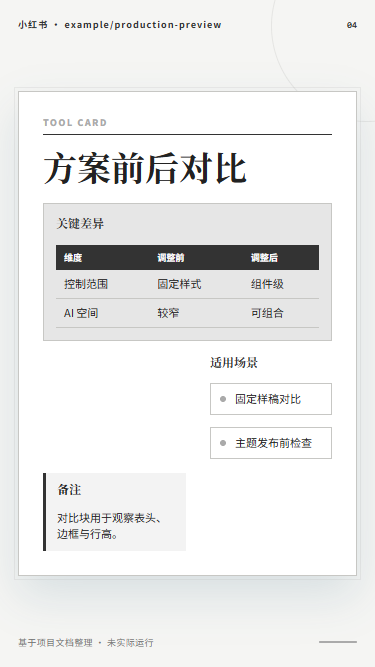
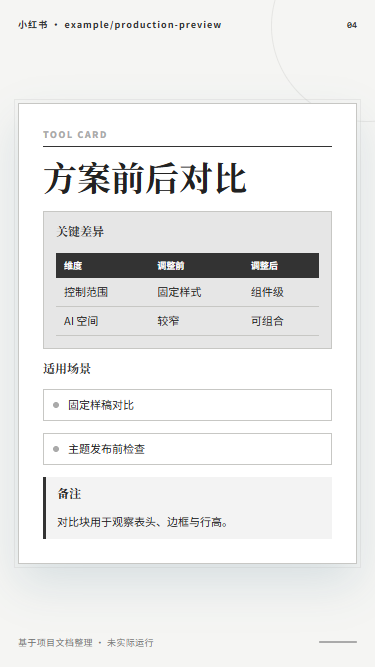
fix(themes): editorial-split 骨架服从管线单列决策
- 双栏网格不再对 blocks-1/blocks-3/comp-cols-single 页面生效，
  3 块页面回归单列，与 semanticCardColumns 语义一致
- 2 块及 4 块以上页面保持骨架双栏构图
- 新增回归测试锁定骨架与管线列决策的一致性

diff --git a/docs/audits/theme-ux/review-layer2/social-bone-white.html b/docs/audits/theme-ux/review-layer2/social-bone-white.html
@@ -25,7 +25,7 @@
 .composition-smart.comp-cols-single.items-6 .list-block ul,.composition-smart.comp-cols-single.items-7 .list-block ul,.composition-smart.comp-cols-single.items-8 .list-block ul,.composition-smart.comp-cols-single.items-9 .list-block ul{grid-template-columns:repeat(2,minmax(0,1fr));gap:7px}.composition-smart.density-compact .page-content-stack{padding:20px 18px;gap:9px}.composition-smart.density-compact .page li{padding:7px 8px 7px 22px;font-size:10px;line-height:1.35}.theme-palette .composition-smart.page-ending .page-content-stack{background:var(--accent);color:var(--page)}.theme-palette .composition-smart.page-ending h1,.theme-palette .composition-smart.page-ending .text-block,.theme-palette .composition-smart.page-ending .text-block h2,.theme-palette .composition-smart.page-ending .text-block p{color:var(--page)}.theme-palette .composition-smart.page-ending.overlap-title-card h1{background:var(--surface);color:var(--ink)}.composition-smart.page-ending.overlap-title-card h1{color:var(--ink)}
 .page.density-relaxed .page-content-stack{gap:calc(var(--card-gap) + 3px)}.page.density-relaxed .content-block{padding-block:3px}
 .page.density-expanded .page-content-stack{gap:calc(var(--card-gap) + 6px)}.page.density-expanded h1{font-size:max(var(--h1-size),min(calc(var(--h1-size) + 4px),34px))}.page.density-expanded .content-block h2{font-size:max(var(--h2-size),min(calc(var(--h2-size) + 2px),18px))}.page.density-expanded .content-block p,.page.density-expanded li{font-size:max(var(--body-size),min(calc(var(--body-size) + 1px),13px));line-height:max(var(--line-height),1.52)}.page.density-expanded .content-block{gap:calc(var(--paragraph-gap) + 3px);padding-block:8px}
-.theme-bone-white{--bg:#e7e7e5;--page:#f5f5f3;--surface:#ffffff;--ink:#222222;--muted:#777777;--accent:#333333;--accent2:#aaaaaa;--line:#c7c7c4;--inverse:#ffffff;--code:#222222;--body-size:11px;--h1-size:34px;--h2-size:12px;--caption-size:9px;--line-height:1.45;--letter-spacing:0em;--page-padding:18px;--section-gap:24px;--paragraph-gap:12px;--card-gap:12px;--radius:0px;--border-width:1px;--shadow:0 20px 45px rgba(36,91,122,.14);--decoration-opacity:0.35}.theme-bone-white{background:var(--bg);color:var(--ink);font-family:"Noto Sans SC","Microsoft YaHei",sans-serif;font-size:var(--body-size);line-height:var(--line-height);letter-spacing:var(--letter-spacing)}.theme-bone-white h1,.theme-bone-white h2,.theme-bone-white h3{font-family:Georgia,"Noto Serif SC","Microsoft YaHei",serif}.theme-bone-white .page{background:var(--page);color:var(--ink)}.theme-bone-white .page-inner{padding:var(--page-padding)}.theme-bone-white .page-content-stack{gap:var(--card-gap);padding:var(--section-gap);border:var(--border-width) solid var(--line);border-radius:var(--radius);background:var(--surface);box-shadow:var(--shadow)}.theme-bone-white .page h1{font-size:var(--h1-size);letter-spacing:var(--letter-spacing)}.theme-bone-white .content-block{gap:var(--paragraph-gap)}.theme-bone-white .content-block h2{font-size:var(--h2-size)}.theme-bone-white .content-block p,.theme-bone-white .page li{font-size:var(--body-size);line-height:var(--line-height)}.theme-bone-white .brand,.theme-bone-white .page-number,.theme-bone-white .content-block h2{color:var(--accent)}.theme-bone-white .brand,.theme-bone-white .page-number,.theme-bone-white .eyebrow,.theme-bone-white .page-footer{font-size:var(--caption-size)}.theme-bone-white .eyebrow{color:var(--accent2)}.theme-bone-white .lead,.theme-bone-white .page-footer{color:var(--muted)}.theme-bone-white .page ul{gap:var(--card-gap)}.theme-bone-white .page li{border:var(--border-width) solid var(--line);border-radius:calc(var(--radius)/2);background:color-mix(in srgb,var(--accent) 12%,var(--surface))}.theme-bone-white .page li:before,.theme-bone-white .page-footer i{background:var(--accent2)}.theme-bone-white .code-block pre{border-radius:calc(var(--radius)/2);background:var(--code);color:var(--inverse)}.theme-bone-white .code-block code{font-size:var(--caption-size);line-height:var(--line-height)}.theme-bone-white .note-block{border-left-color:var(--accent);border-radius:0 calc(var(--radius)/2) calc(var(--radius)/2) 0;background:color-mix(in srgb,var(--accent2) 14%,var(--surface))}.theme-bone-white .page-ending .page-content-stack{background:var(--accent);color:var(--inverse)}.theme-bone-white .page-ending .lead,.theme-bone-white .page-ending li,.theme-bone-white .page-ending .content-block h2{color:var(--inverse)}.theme-bone-white .page-ending li{background:rgba(0,0,0,.14)}.theme-bone-white .page-ending .note-block,.theme-bone-white .page-ending .highlight-block,.theme-bone-white .page-ending .scene,.theme-bone-white .page-ending .stat,.theme-bone-white .page-ending .compare-block td{color:var(--ink)}.theme-bone-white .page-content-stack{outline:1px solid color-mix(in srgb,var(--accent2) 18%,transparent);outline-offset:3px}.theme-bone-white .page-ending .page-content-stack{background:var(--accent);color:var(--inverse)}.theme-bone-white .page li{background:transparent;border-color:var(--line)}.theme-bone-white .code-block pre{background:var(--code);color:var(--inverse);border:var(--border-width) solid var(--line)}.theme-bone-white .page:after{border-radius:50%}.theme-bone-white .eyebrow{border-bottom:1px solid var(--accent);padding-bottom:5px}.theme-bone-white .page-cover h1{font-family:Georgia,"Noto Serif SC","Microsoft YaHei",serif;font-weight:700;line-height:1.14;letter-spacing:-.025em;padding:14px 0 12px;border-top:4px double var(--ink);border-bottom:1px solid var(--accent);text-wrap:balance}.theme-bone-white .skeleton-editorial-split:not(.page-cover) .page-content-stack{display:grid;grid-template-columns:minmax(0,1.08fr) minmax(0,.92fr);align-content:center;gap:calc(var(--card-gap) + 2px) var(--section-gap)}.theme-bone-white .skeleton-editorial-split:not(.page-cover) .eyebrow,.theme-bone-white .skeleton-editorial-split:not(.page-cover) h1,.theme-bone-white .skeleton-editorial-split:not(.page-cover) .cover-support{grid-column:1/-1}.theme-bone-white .skeleton-editorial-split:not(.page-cover) .content-block:nth-child(odd){grid-column:1}.theme-bone-white .skeleton-editorial-split:not(.page-cover) .content-block:nth-child(even){grid-column:2}.theme-bone-white .skeleton-editorial-split:not(.page-cover) .content-block.stats-block,.theme-bone-white .skeleton-editorial-split:not(.page-cover) .content-block.compare-block,.theme-bone-white .skeleton-editorial-split:not(.page-cover) .content-block.code-block{grid-column:1/-1}.theme-bone-white .page-cover h1{font-family:Georgia,"Noto Serif SC","Microsoft YaHei",serif;font-weight:700;font-size:34px;color:var(--ink);border-color:var(--accent)}.theme-bone-white .eyebrow{font-weight:800;color:var(--accent2)}.theme-bone-white .page-cover .lead{font-size:11px;color:var(--muted)}.theme-bone-white .stat b{font-weight:800;font-size:19px;color:var(--accent)}.theme-bone-white .stat span{font-size:9px;color:var(--muted)}.theme-bone-white .step h3{color:var(--ink)}.theme-bone-white .step p{color:var(--muted)}.theme-bone-white .step>b{background:var(--accent)}.theme-bone-white .compare-block th{color:var(--inverse);background:var(--accent)}.theme-bone-white .compare-block td{color:var(--ink);border-color:var(--line)}.theme-bone-white .page li{color:var(--ink);border-color:var(--line);}.theme-bone-white .note-block,.theme-bone-white .note-block h2,.theme-bone-white .note-block p{color:var(--ink)}.theme-bone-white .note-block{border-left-color:var(--accent);}.theme-bone-white .page:not(.page-cover):not(.page-ending) h1{font-size:34px;color:var(--ink)}.theme-bone-white .page-ending h1{font-size:34px;color:var(--inverse)}</style><style data-theme-preview-shell>html{background:#d8d6cf}body{margin:0;padding:24px;box-sizing:border-box}</style></head><body class="theme-bone-white theme-palette" data-visual-style="bone-white" data-theme-version="1.0.0" data-theme-hash="undefined" data-channel="xiaohongshu"><section class="page page-cover skeleton-editorial-split layout-poster density-normal blocks-0 items-0 composition-template" data-page-kind="cover" data-page-role="cover" data-composition-mode="template" data-composition-id="" data-layout="poster" data-layout-source="recommended" data-density="normal" data-density-adjustment="none" data-block-count="0" data-list-item-count="0" data-page-number="1"><div class="page-inner"><header class="page-header"><span class="brand">小红书 · example/production-preview</span><span class="page-number">01</span></header><main class="page-body" data-valign="center"><div class="page-content-stack" data-card-index="01"><span class="eyebrow">TOOL RADAR</span><h1>如何把复杂的技术内容讲得清楚又准确</h1><p class="cover-support cover-support-lead">用一页讲清关键判断，再决定是否深入细节。</p></div></main><footer class="page-footer"><span>基于项目文档整理 · 未实际运行</span><i></i></footer></div></section>
+.theme-bone-white{--bg:#e7e7e5;--page:#f5f5f3;--surface:#ffffff;--ink:#222222;--muted:#777777;--accent:#333333;--accent2:#aaaaaa;--line:#c7c7c4;--inverse:#ffffff;--code:#222222;--body-size:11px;--h1-size:34px;--h2-size:12px;--caption-size:9px;--line-height:1.45;--letter-spacing:0em;--page-padding:18px;--section-gap:24px;--paragraph-gap:12px;--card-gap:12px;--radius:0px;--border-width:1px;--shadow:0 20px 45px rgba(36,91,122,.14);--decoration-opacity:0.35}.theme-bone-white{background:var(--bg);color:var(--ink);font-family:"Noto Sans SC","Microsoft YaHei",sans-serif;font-size:var(--body-size);line-height:var(--line-height);letter-spacing:var(--letter-spacing)}.theme-bone-white h1,.theme-bone-white h2,.theme-bone-white h3{font-family:Georgia,"Noto Serif SC","Microsoft YaHei",serif}.theme-bone-white .page{background:var(--page);color:var(--ink)}.theme-bone-white .page-inner{padding:var(--page-padding)}.theme-bone-white .page-content-stack{gap:var(--card-gap);padding:var(--section-gap);border:var(--border-width) solid var(--line);border-radius:var(--radius);background:var(--surface);box-shadow:var(--shadow)}.theme-bone-white .page h1{font-size:var(--h1-size);letter-spacing:var(--letter-spacing)}.theme-bone-white .content-block{gap:var(--paragraph-gap)}.theme-bone-white .content-block h2{font-size:var(--h2-size)}.theme-bone-white .content-block p,.theme-bone-white .page li{font-size:var(--body-size);line-height:var(--line-height)}.theme-bone-white .brand,.theme-bone-white .page-number,.theme-bone-white .content-block h2{color:var(--accent)}.theme-bone-white .brand,.theme-bone-white .page-number,.theme-bone-white .eyebrow,.theme-bone-white .page-footer{font-size:var(--caption-size)}.theme-bone-white .eyebrow{color:var(--accent2)}.theme-bone-white .lead,.theme-bone-white .page-footer{color:var(--muted)}.theme-bone-white .page ul{gap:var(--card-gap)}.theme-bone-white .page li{border:var(--border-width) solid var(--line);border-radius:calc(var(--radius)/2);background:color-mix(in srgb,var(--accent) 12%,var(--surface))}.theme-bone-white .page li:before,.theme-bone-white .page-footer i{background:var(--accent2)}.theme-bone-white .code-block pre{border-radius:calc(var(--radius)/2);background:var(--code);color:var(--inverse)}.theme-bone-white .code-block code{font-size:var(--caption-size);line-height:var(--line-height)}.theme-bone-white .note-block{border-left-color:var(--accent);border-radius:0 calc(var(--radius)/2) calc(var(--radius)/2) 0;background:color-mix(in srgb,var(--accent2) 14%,var(--surface))}.theme-bone-white .page-ending .page-content-stack{background:var(--accent);color:var(--inverse)}.theme-bone-white .page-ending .lead,.theme-bone-white .page-ending li,.theme-bone-white .page-ending .content-block h2{color:var(--inverse)}.theme-bone-white .page-ending li{background:rgba(0,0,0,.14)}.theme-bone-white .page-ending .note-block,.theme-bone-white .page-ending .highlight-block,.theme-bone-white .page-ending .scene,.theme-bone-white .page-ending .stat,.theme-bone-white .page-ending .compare-block td{color:var(--ink)}.theme-bone-white .page-content-stack{outline:1px solid color-mix(in srgb,var(--accent2) 18%,transparent);outline-offset:3px}.theme-bone-white .page-ending .page-content-stack{background:var(--accent);color:var(--inverse)}.theme-bone-white .page li{background:transparent;border-color:var(--line)}.theme-bone-white .code-block pre{background:var(--code);color:var(--inverse);border:var(--border-width) solid var(--line)}.theme-bone-white .page:after{border-radius:50%}.theme-bone-white .eyebrow{border-bottom:1px solid var(--accent);padding-bottom:5px}.theme-bone-white .page-cover h1{font-family:Georgia,"Noto Serif SC","Microsoft YaHei",serif;font-weight:700;line-height:1.14;letter-spacing:-.025em;padding:14px 0 12px;border-top:4px double var(--ink);border-bottom:1px solid var(--accent);text-wrap:balance}.theme-bone-white .skeleton-editorial-split:not(.page-cover):not(.blocks-1):not(.blocks-3):not(.comp-cols-single) .page-content-stack{display:grid;grid-template-columns:minmax(0,1.08fr) minmax(0,.92fr);align-content:center;gap:calc(var(--card-gap) + 2px) var(--section-gap)}.theme-bone-white .skeleton-editorial-split:not(.page-cover) .eyebrow,.theme-bone-white .skeleton-editorial-split:not(.page-cover) h1,.theme-bone-white .skeleton-editorial-split:not(.page-cover) .cover-support{grid-column:1/-1}.theme-bone-white .skeleton-editorial-split:not(.page-cover):not(.blocks-1):not(.blocks-3):not(.comp-cols-single) .content-block:nth-child(odd){grid-column:1}.theme-bone-white .skeleton-editorial-split:not(.page-cover):not(.blocks-1):not(.blocks-3):not(.comp-cols-single) .content-block:nth-child(even){grid-column:2}.theme-bone-white .skeleton-editorial-split:not(.page-cover):not(.blocks-1):not(.blocks-3):not(.comp-cols-single) .content-block.stats-block,.theme-bone-white .skeleton-editorial-split:not(.page-cover):not(.blocks-1):not(.blocks-3):not(.comp-cols-single) .content-block.compare-block,.theme-bone-white .skeleton-editorial-split:not(.page-cover):not(.blocks-1):not(.blocks-3):not(.comp-cols-single) .content-block.code-block{grid-column:1/-1}.theme-bone-white .page-cover h1{font-family:Georgia,"Noto Serif SC","Microsoft YaHei",serif;font-weight:700;font-size:34px;color:var(--ink);border-color:var(--accent)}.theme-bone-white .eyebrow{font-weight:800;color:var(--accent2)}.theme-bone-white .page-cover .lead{font-size:11px;color:var(--muted)}.theme-bone-white .stat b{font-weight:800;font-size:19px;color:var(--accent)}.theme-bone-white .stat span{font-size:9px;color:var(--muted)}.theme-bone-white .step h3{color:var(--ink)}.theme-bone-white .step p{color:var(--muted)}.theme-bone-white .step>b{background:var(--accent)}.theme-bone-white .compare-block th{color:var(--inverse);background:var(--accent)}.theme-bone-white .compare-block td{color:var(--ink);border-color:var(--line)}.theme-bone-white .page li{color:var(--ink);border-color:var(--line);}.theme-bone-white .note-block,.theme-bone-white .note-block h2,.theme-bone-white .note-block p{color:var(--ink)}.theme-bone-white .note-block{border-left-color:var(--accent);}.theme-bone-white .page:not(.page-cover):not(.page-ending) h1{font-size:34px;color:var(--ink)}.theme-bone-white .page-ending h1{font-size:34px;color:var(--inverse)}</style><style data-theme-preview-shell>html{background:#d8d6cf}body{margin:0;padding:24px;box-sizing:border-box}</style></head><body class="theme-bone-white theme-palette" data-visual-style="bone-white" data-theme-version="1.0.0" data-theme-hash="undefined" data-channel="xiaohongshu"><section class="page page-cover skeleton-editorial-split layout-poster density-normal blocks-0 items-0 composition-template" data-page-kind="cover" data-page-role="cover" data-composition-mode="template" data-composition-id="" data-layout="poster" data-layout-source="recommended" data-density="normal" data-density-adjustment="none" data-block-count="0" data-list-item-count="0" data-page-number="1"><div class="page-inner"><header class="page-header"><span class="brand">小红书 · example/production-preview</span><span class="page-number">01</span></header><main class="page-body" data-valign="center"><div class="page-content-stack" data-card-index="01"><span class="eyebrow">TOOL RADAR</span><h1>如何把复杂的技术内容讲得清楚又准确</h1><p class="cover-support cover-support-lead">用一页讲清关键判断，再决定是否深入细节。</p></div></main><footer class="page-footer"><span>基于项目文档整理 · 未实际运行</span><i></i></footer></div></section>
 <section class="page page-content skeleton-editorial-split layout-data density-normal blocks-4 items-2 composition-template" data-page-kind="content" data-page-role="data" data-composition-mode="template" data-composition-id="" data-layout="data" data-layout-source="recommended" data-density="normal" data-density-adjustment="none" data-block-count="4" data-list-item-count="2" data-page-number="2"><div class="page-inner"><header class="page-header"><span class="brand">小红书 · example/production-preview</span><span class="page-number">02</span></header><main class="page-body" data-valign="center"><div class="page-content-stack" data-card-index="02"><span class="eyebrow">TOOL CARD</span><h1>关键指标与判断</h1><div class="content-block stats-block"><h2>关键数字</h2><div class="stat-row"><div class="stat"><b>2.4x</b><span data-text-role="auxiliary">速度</span></div><div class="stat"><b>-12%</b><span data-text-role="auxiliary">成本</span></div></div></div><div class="content-block list-block"><h2>核心要点</h2><ul><li>第一条固定要点</li><li>第二条固定要点</li></ul></div><aside class="content-block note-block"><h2>提示</h2><p>用于观察强调面板、边框和正文对比度。</p></aside><div class="content-block code-block"><h2>代码</h2><pre><code>const theme = &#39;preview&#39;;</code></pre></div></div></main><footer class="page-footer"><span>基于项目文档整理 · 未实际运行</span><i></i></footer></div></section>
 <section class="page page-content skeleton-editorial-split layout-steps density-normal blocks-3 items-2 composition-template" data-page-kind="content" data-page-role="steps" data-composition-mode="template" data-composition-id="" data-layout="steps" data-layout-source="recommended" data-density="normal" data-density-adjustment="none" data-block-count="3" data-list-item-count="2" data-page-number="3"><div class="page-inner"><header class="page-header"><span class="brand">小红书 · example/production-preview</span><span class="page-number">03</span></header><main class="page-body" data-valign="center"><div class="page-content-stack" data-card-index="03"><span class="eyebrow">TOOL CARD</span><h1>三步完成主题配置</h1><div class="content-block steps-block"><h2>执行步骤</h2><div class="step-col"><div class="step"><b>1</b><div><h3>选择配方</h3><p>先确定整体造型与内容节奏。</p></div></div><div class="step"><b>2</b><div><h3>调整细节</h3><p>再微调文字、表面和边框。</p></div></div><div class="step"><b>3</b><div><h3>检查样稿</h3><p>最后确认固定画布没有溢出。</p></div></div></div></div><div class="content-block list-block"><h2>检查清单</h2><ul><li>配方与骨架符合主题定位</li><li>对比度与密度均在预算内</li></ul></div><aside class="content-block note-block"><h2>提示</h2><p>步骤块用于观察序号、标题与正文的层级。</p></aside></div></main><footer class="page-footer"><span>基于项目文档整理 · 未实际运行</span><i></i></footer></div></section>
 <section class="page page-content skeleton-editorial-split layout-data density-normal blocks-3 items-2 composition-template" data-page-kind="content" data-page-role="compare" data-composition-mode="template" data-composition-id="" data-layout="data" data-layout-source="recommended" data-density="normal" data-density-adjustment="none" data-block-count="3" data-list-item-count="2" data-page-number="4"><div class="page-inner"><header class="page-header"><span class="brand">小红书 · example/production-preview</span><span class="page-number">04</span></header><main class="page-body" data-valign="center"><div class="page-content-stack" data-card-index="04"><span class="eyebrow">TOOL CARD</span><h1>方案前后对比</h1><div class="content-block compare-block"><h2>关键差异</h2><table><thead><tr><th data-text-role="auxiliary">维度</th><th data-text-role="auxiliary">调整前</th><th data-text-role="auxiliary">调整后</th></tr></thead><tbody><tr><td>控制范围</td><td>固定样式</td><td>组件级</td></tr><tr><td>AI 空间</td><td>较窄</td><td>可组合</td></tr></tbody></table></div><div class="content-block list-block"><h2>适用场景</h2><ul><li>固定样稿对比</li><li>主题发布前检查</li></ul></div><aside class="content-block note-block"><h2>备注</h2><p>对比块用于观察表头、边框与行高。</p></aside></div></main><footer class="page-footer"><span>基于项目文档整理 · 未实际运行</span><i></i></footer></div></section>

diff --git a/docs/audits/theme-ux/review-layer2/social-solarized.html b/docs/audits/theme-ux/review-layer2/social-solarized.html
@@ -25,7 +25,7 @@
 .composition-smart.comp-cols-single.items-6 .list-block ul,.composition-smart.comp-cols-single.items-7 .list-block ul,.composition-smart.comp-cols-single.items-8 .list-block ul,.composition-smart.comp-cols-single.items-9 .list-block ul{grid-template-columns:repeat(2,minmax(0,1fr));gap:7px}.composition-smart.density-compact .page-content-stack{padding:20px 18px;gap:9px}.composition-smart.density-compact .page li{padding:7px 8px 7px 22px;font-size:10px;line-height:1.35}.theme-palette .composition-smart.page-ending .page-content-stack{background:var(--accent);color:var(--page)}.theme-palette .composition-smart.page-ending h1,.theme-palette .composition-smart.page-ending .text-block,.theme-palette .composition-smart.page-ending .text-block h2,.theme-palette .composition-smart.page-ending .text-block p{color:var(--page)}.theme-palette .composition-smart.page-ending.overlap-title-card h1{background:var(--surface);color:var(--ink)}.composition-smart.page-ending.overlap-title-card h1{color:var(--ink)}
 .page.density-relaxed .page-content-stack{gap:calc(var(--card-gap) + 3px)}.page.density-relaxed .content-block{padding-block:3px}
 .page.density-expanded .page-content-stack{gap:calc(var(--card-gap) + 6px)}.page.density-expanded h1{font-size:max(var(--h1-size),min(calc(var(--h1-size) + 4px),34px))}.page.density-expanded .content-block h2{font-size:max(var(--h2-size),min(calc(var(--h2-size) + 2px),18px))}.page.density-expanded .content-block p,.page.density-expanded li{font-size:max(var(--body-size),min(calc(var(--body-size) + 1px),13px));line-height:max(var(--line-height),1.52)}.page.density-expanded .content-block{gap:calc(var(--paragraph-gap) + 3px);padding-block:8px}
-.theme-solarized{--bg:#eee8d5;--page:#fdf6e3;--surface:#fffaf0;--ink:#073642;--muted:#657b83;--accent:#2aa198;--accent2:#b58900;--line:#93a1a1;--inverse:#ffffff;--code:#002b36;--body-size:11px;--h1-size:34px;--h2-size:12px;--caption-size:9px;--line-height:1.45;--letter-spacing:0em;--page-padding:18px;--section-gap:24px;--paragraph-gap:12px;--card-gap:12px;--radius:14px;--border-width:1px;--shadow:0 20px 45px rgba(36,91,122,.14);--decoration-opacity:0.35}.theme-solarized{background:var(--bg);color:var(--ink);font-family:"Noto Sans SC","Microsoft YaHei",sans-serif;font-size:var(--body-size);line-height:var(--line-height);letter-spacing:var(--letter-spacing)}.theme-solarized h1,.theme-solarized h2,.theme-solarized h3{font-family:"Noto Sans SC","Microsoft YaHei",sans-serif}.theme-solarized .page{background:var(--page);color:var(--ink)}.theme-solarized .page-inner{padding:var(--page-padding)}.theme-solarized .page-content-stack{gap:var(--card-gap);padding:var(--section-gap);border:var(--border-width) solid var(--line);border-radius:var(--radius);background:var(--surface);box-shadow:var(--shadow)}.theme-solarized .page h1{font-size:var(--h1-size);letter-spacing:var(--letter-spacing)}.theme-solarized .content-block{gap:var(--paragraph-gap)}.theme-solarized .content-block h2{font-size:var(--h2-size)}.theme-solarized .content-block p,.theme-solarized .page li{font-size:var(--body-size);line-height:var(--line-height)}.theme-solarized .brand,.theme-solarized .page-number,.theme-solarized .content-block h2{color:var(--accent)}.theme-solarized .brand,.theme-solarized .page-number,.theme-solarized .eyebrow,.theme-solarized .page-footer{font-size:var(--caption-size)}.theme-solarized .eyebrow{color:var(--accent2)}.theme-solarized .lead,.theme-solarized .page-footer{color:var(--muted)}.theme-solarized .page ul{gap:var(--card-gap)}.theme-solarized .page li{border:var(--border-width) solid var(--line);border-radius:calc(var(--radius)/2);background:color-mix(in srgb,var(--accent) 12%,var(--surface))}.theme-solarized .page li:before,.theme-solarized .page-footer i{background:var(--accent2)}.theme-solarized .code-block pre{border-radius:calc(var(--radius)/2);background:var(--code);color:var(--inverse)}.theme-solarized .code-block code{font-size:var(--caption-size);line-height:var(--line-height)}.theme-solarized .note-block{border-left-color:var(--accent);border-radius:0 calc(var(--radius)/2) calc(var(--radius)/2) 0;background:color-mix(in srgb,var(--accent2) 14%,var(--surface))}.theme-solarized .page-ending .page-content-stack{background:var(--accent);color:var(--inverse)}.theme-solarized .page-ending .lead,.theme-solarized .page-ending li,.theme-solarized .page-ending .content-block h2{color:var(--inverse)}.theme-solarized .page-ending li{background:rgba(0,0,0,.14)}.theme-solarized .page-ending .note-block,.theme-solarized .page-ending .highlight-block,.theme-solarized .page-ending .scene,.theme-solarized .page-ending .stat,.theme-solarized .page-ending .compare-block td{color:var(--ink)}.theme-solarized .page-content-stack{outline:1px solid color-mix(in srgb,var(--accent2) 18%,transparent);outline-offset:3px}.theme-solarized .page-ending .page-content-stack{background:var(--accent);color:var(--inverse)}.theme-solarized .page li{background:color-mix(in srgb,var(--accent) 16%,var(--surface))}.theme-solarized .code-block pre{background:var(--code);color:var(--inverse);border:var(--border-width) solid var(--line)}.theme-solarized .eyebrow{color:var(--accent2)}.theme-solarized .page-cover h1{font-family:Georgia,"Noto Serif SC","Microsoft YaHei",serif;font-weight:700;line-height:1.14;letter-spacing:-.025em;padding:14px 0 12px;border-top:4px double var(--ink);border-bottom:1px solid var(--accent);text-wrap:balance}.theme-solarized .skeleton-editorial-split:not(.page-cover) .page-content-stack{display:grid;grid-template-columns:minmax(0,1.08fr) minmax(0,.92fr);align-content:center;gap:calc(var(--card-gap) + 2px) var(--section-gap)}.theme-solarized .skeleton-editorial-split:not(.page-cover) .eyebrow,.theme-solarized .skeleton-editorial-split:not(.page-cover) h1,.theme-solarized .skeleton-editorial-split:not(.page-cover) .cover-support{grid-column:1/-1}.theme-solarized .skeleton-editorial-split:not(.page-cover) .content-block:nth-child(odd){grid-column:1}.theme-solarized .skeleton-editorial-split:not(.page-cover) .content-block:nth-child(even){grid-column:2}.theme-solarized .skeleton-editorial-split:not(.page-cover) .content-block.stats-block,.theme-solarized .skeleton-editorial-split:not(.page-cover) .content-block.compare-block,.theme-solarized .skeleton-editorial-split:not(.page-cover) .content-block.code-block{grid-column:1/-1}.theme-solarized .page-cover h1{font-family:Georgia,"Noto Serif SC","Microsoft YaHei",serif;font-weight:700;font-size:34px;color:var(--ink);border-color:var(--accent)}.theme-solarized .eyebrow{font-weight:800;color:var(--accent2)}.theme-solarized .page-cover .lead{font-size:11px;color:var(--muted)}.theme-solarized .stat b{font-weight:800;font-size:19px;color:var(--accent)}.theme-solarized .stat span{font-size:9px;color:var(--muted)}.theme-solarized .step h3{color:var(--ink)}.theme-solarized .step p{color:var(--muted)}.theme-solarized .step>b{background:var(--accent)}.theme-solarized .compare-block th{color:var(--inverse);background:var(--accent)}.theme-solarized .compare-block td{color:var(--ink);border-color:var(--line)}.theme-solarized .page li{color:var(--ink);border-color:var(--line);}.theme-solarized .note-block,.theme-solarized .note-block h2,.theme-solarized .note-block p{color:var(--ink)}.theme-solarized .note-block{border-left-color:var(--accent);}.theme-solarized .page:not(.page-cover):not(.page-ending) h1{font-size:34px;color:var(--ink)}.theme-solarized .page-ending h1{font-size:34px;color:var(--inverse)}</style><style data-theme-preview-shell>html{background:#d8d6cf}body{margin:0;padding:24px;box-sizing:border-box}</style></head><body class="theme-solarized theme-palette" data-visual-style="solarized" data-theme-version="1.0.0" data-theme-hash="undefined" data-channel="xiaohongshu"><section class="page page-cover skeleton-editorial-split layout-poster density-normal blocks-0 items-0 composition-template" data-page-kind="cover" data-page-role="cover" data-composition-mode="template" data-composition-id="" data-layout="poster" data-layout-source="recommended" data-density="normal" data-density-adjustment="none" data-block-count="0" data-list-item-count="0" data-page-number="1"><div class="page-inner"><header class="page-header"><span class="brand">小红书 · example/production-preview</span><span class="page-number">01</span></header><main class="page-body" data-valign="center"><div class="page-content-stack" data-card-index="01"><span class="eyebrow">TOOL RADAR</span><h1>如何把复杂的技术内容讲得清楚又准确</h1><aside class="cover-support cover-support-statement"><small>CORE TAKEAWAY</small><p>用一页讲清关键判断，再决定是否深入细节。</p></aside></div></main><footer class="page-footer"><span>基于项目文档整理 · 未实际运行</span><i></i></footer></div></section>
+.theme-solarized{--bg:#eee8d5;--page:#fdf6e3;--surface:#fffaf0;--ink:#073642;--muted:#657b83;--accent:#2aa198;--accent2:#b58900;--line:#93a1a1;--inverse:#ffffff;--code:#002b36;--body-size:11px;--h1-size:34px;--h2-size:12px;--caption-size:9px;--line-height:1.45;--letter-spacing:0em;--page-padding:18px;--section-gap:24px;--paragraph-gap:12px;--card-gap:12px;--radius:14px;--border-width:1px;--shadow:0 20px 45px rgba(36,91,122,.14);--decoration-opacity:0.35}.theme-solarized{background:var(--bg);color:var(--ink);font-family:"Noto Sans SC","Microsoft YaHei",sans-serif;font-size:var(--body-size);line-height:var(--line-height);letter-spacing:var(--letter-spacing)}.theme-solarized h1,.theme-solarized h2,.theme-solarized h3{font-family:"Noto Sans SC","Microsoft YaHei",sans-serif}.theme-solarized .page{background:var(--page);color:var(--ink)}.theme-solarized .page-inner{padding:var(--page-padding)}.theme-solarized .page-content-stack{gap:var(--card-gap);padding:var(--section-gap);border:var(--border-width) solid var(--line);border-radius:var(--radius);background:var(--surface);box-shadow:var(--shadow)}.theme-solarized .page h1{font-size:var(--h1-size);letter-spacing:var(--letter-spacing)}.theme-solarized .content-block{gap:var(--paragraph-gap)}.theme-solarized .content-block h2{font-size:var(--h2-size)}.theme-solarized .content-block p,.theme-solarized .page li{font-size:var(--body-size);line-height:var(--line-height)}.theme-solarized .brand,.theme-solarized .page-number,.theme-solarized .content-block h2{color:var(--accent)}.theme-solarized .brand,.theme-solarized .page-number,.theme-solarized .eyebrow,.theme-solarized .page-footer{font-size:var(--caption-size)}.theme-solarized .eyebrow{color:var(--accent2)}.theme-solarized .lead,.theme-solarized .page-footer{color:var(--muted)}.theme-solarized .page ul{gap:var(--card-gap)}.theme-solarized .page li{border:var(--border-width) solid var(--line);border-radius:calc(var(--radius)/2);background:color-mix(in srgb,var(--accent) 12%,var(--surface))}.theme-solarized .page li:before,.theme-solarized .page-footer i{background:var(--accent2)}.theme-solarized .code-block pre{border-radius:calc(var(--radius)/2);background:var(--code);color:var(--inverse)}.theme-solarized .code-block code{font-size:var(--caption-size);line-height:var(--line-height)}.theme-solarized .note-block{border-left-color:var(--accent);border-radius:0 calc(var(--radius)/2) calc(var(--radius)/2) 0;background:color-mix(in srgb,var(--accent2) 14%,var(--surface))}.theme-solarized .page-ending .page-content-stack{background:var(--accent);color:var(--inverse)}.theme-solarized .page-ending .lead,.theme-solarized .page-ending li,.theme-solarized .page-ending .content-block h2{color:var(--inverse)}.theme-solarized .page-ending li{background:rgba(0,0,0,.14)}.theme-solarized .page-ending .note-block,.theme-solarized .page-ending .highlight-block,.theme-solarized .page-ending .scene,.theme-solarized .page-ending .stat,.theme-solarized .page-ending .compare-block td{color:var(--ink)}.theme-solarized .page-content-stack{outline:1px solid color-mix(in srgb,var(--accent2) 18%,transparent);outline-offset:3px}.theme-solarized .page-ending .page-content-stack{background:var(--accent);color:var(--inverse)}.theme-solarized .page li{background:color-mix(in srgb,var(--accent) 16%,var(--surface))}.theme-solarized .code-block pre{background:var(--code);color:var(--inverse);border:var(--border-width) solid var(--line)}.theme-solarized .eyebrow{color:var(--accent2)}.theme-solarized .page-cover h1{font-family:Georgia,"Noto Serif SC","Microsoft YaHei",serif;font-weight:700;line-height:1.14;letter-spacing:-.025em;padding:14px 0 12px;border-top:4px double var(--ink);border-bottom:1px solid var(--accent);text-wrap:balance}.theme-solarized .skeleton-editorial-split:not(.page-cover):not(.blocks-1):not(.blocks-3):not(.comp-cols-single) .page-content-stack{display:grid;grid-template-columns:minmax(0,1.08fr) minmax(0,.92fr);align-content:center;gap:calc(var(--card-gap) + 2px) var(--section-gap)}.theme-solarized .skeleton-editorial-split:not(.page-cover) .eyebrow,.theme-solarized .skeleton-editorial-split:not(.page-cover) h1,.theme-solarized .skeleton-editorial-split:not(.page-cover) .cover-support{grid-column:1/-1}.theme-solarized .skeleton-editorial-split:not(.page-cover):not(.blocks-1):not(.blocks-3):not(.comp-cols-single) .content-block:nth-child(odd){grid-column:1}.theme-solarized .skeleton-editorial-split:not(.page-cover):not(.blocks-1):not(.blocks-3):not(.comp-cols-single) .content-block:nth-child(even){grid-column:2}.theme-solarized .skeleton-editorial-split:not(.page-cover):not(.blocks-1):not(.blocks-3):not(.comp-cols-single) .content-block.stats-block,.theme-solarized .skeleton-editorial-split:not(.page-cover):not(.blocks-1):not(.blocks-3):not(.comp-cols-single) .content-block.compare-block,.theme-solarized .skeleton-editorial-split:not(.page-cover):not(.blocks-1):not(.blocks-3):not(.comp-cols-single) .content-block.code-block{grid-column:1/-1}.theme-solarized .page-cover h1{font-family:Georgia,"Noto Serif SC","Microsoft YaHei",serif;font-weight:700;font-size:34px;color:var(--ink);border-color:var(--accent)}.theme-solarized .eyebrow{font-weight:800;color:var(--accent2)}.theme-solarized .page-cover .lead{font-size:11px;color:var(--muted)}.theme-solarized .stat b{font-weight:800;font-size:19px;color:var(--accent)}.theme-solarized .stat span{font-size:9px;color:var(--muted)}.theme-solarized .step h3{color:var(--ink)}.theme-solarized .step p{color:var(--muted)}.theme-solarized .step>b{background:var(--accent)}.theme-solarized .compare-block th{color:var(--inverse);background:var(--accent)}.theme-solarized .compare-block td{color:var(--ink);border-color:var(--line)}.theme-solarized .page li{color:var(--ink);border-color:var(--line);}.theme-solarized .note-block,.theme-solarized .note-block h2,.theme-solarized .note-block p{color:var(--ink)}.theme-solarized .note-block{border-left-color:var(--accent);}.theme-solarized .page:not(.page-cover):not(.page-ending) h1{font-size:34px;color:var(--ink)}.theme-solarized .page-ending h1{font-size:34px;color:var(--inverse)}</style><style data-theme-preview-shell>html{background:#d8d6cf}body{margin:0;padding:24px;box-sizing:border-box}</style></head><body class="theme-solarized theme-palette" data-visual-style="solarized" data-theme-version="1.0.0" data-theme-hash="undefined" data-channel="xiaohongshu"><section class="page page-cover skeleton-editorial-split layout-poster density-normal blocks-0 items-0 composition-template" data-page-kind="cover" data-page-role="cover" data-composition-mode="template" data-composition-id="" data-layout="poster" data-layout-source="recommended" data-density="normal" data-density-adjustment="none" data-block-count="0" data-list-item-count="0" data-page-number="1"><div class="page-inner"><header class="page-header"><span class="brand">小红书 · example/production-preview</span><span class="page-number">01</span></header><main class="page-body" data-valign="center"><div class="page-content-stack" data-card-index="01"><span class="eyebrow">TOOL RADAR</span><h1>如何把复杂的技术内容讲得清楚又准确</h1><aside class="cover-support cover-support-statement"><small>CORE TAKEAWAY</small><p>用一页讲清关键判断，再决定是否深入细节。</p></aside></div></main><footer class="page-footer"><span>基于项目文档整理 · 未实际运行</span><i></i></footer></div></section>
 <section class="page page-content skeleton-editorial-split layout-data density-normal blocks-4 items-2 composition-template" data-page-kind="content" data-page-role="data" data-composition-mode="template" data-composition-id="" data-layout="data" data-layout-source="recommended" data-density="normal" data-density-adjustment="none" data-block-count="4" data-list-item-count="2" data-page-number="2"><div class="page-inner"><header class="page-header"><span class="brand">小红书 · example/production-preview</span><span class="page-number">02</span></header><main class="page-body" data-valign="center"><div class="page-content-stack" data-card-index="02"><span class="eyebrow">TOOL CARD</span><h1>关键指标与判断</h1><div class="content-block stats-block"><h2>关键数字</h2><div class="stat-row"><div class="stat"><b>2.4x</b><span data-text-role="auxiliary">速度</span></div><div class="stat"><b>-12%</b><span data-text-role="auxiliary">成本</span></div></div></div><div class="content-block list-block"><h2>核心要点</h2><ul><li>第一条固定要点</li><li>第二条固定要点</li></ul></div><aside class="content-block note-block"><h2>提示</h2><p>用于观察强调面板、边框和正文对比度。</p></aside><div class="content-block code-block"><h2>代码</h2><pre><code>const theme = &#39;preview&#39;;</code></pre></div></div></main><footer class="page-footer"><span>基于项目文档整理 · 未实际运行</span><i></i></footer></div></section>
 <section class="page page-content skeleton-editorial-split layout-steps density-normal blocks-3 items-2 composition-template" data-page-kind="content" data-page-role="steps" data-composition-mode="template" data-composition-id="" data-layout="steps" data-layout-source="recommended" data-density="normal" data-density-adjustment="none" data-block-count="3" data-list-item-count="2" data-page-number="3"><div class="page-inner"><header class="page-header"><span class="brand">小红书 · example/production-preview</span><span class="page-number">03</span></header><main class="page-body" data-valign="center"><div class="page-content-stack" data-card-index="03"><span class="eyebrow">TOOL CARD</span><h1>三步完成主题配置</h1><div class="content-block steps-block"><h2>执行步骤</h2><div class="step-col"><div class="step"><b>1</b><div><h3>选择配方</h3><p>先确定整体造型与内容节奏。</p></div></div><div class="step"><b>2</b><div><h3>调整细节</h3><p>再微调文字、表面和边框。</p></div></div><div class="step"><b>3</b><div><h3>检查样稿</h3><p>最后确认固定画布没有溢出。</p></div></div></div></div><div class="content-block list-block"><h2>检查清单</h2><ul><li>配方与骨架符合主题定位</li><li>对比度与密度均在预算内</li></ul></div><aside class="content-block note-block"><h2>提示</h2><p>步骤块用于观察序号、标题与正文的层级。</p></aside></div></main><footer class="page-footer"><span>基于项目文档整理 · 未实际运行</span><i></i></footer></div></section>
 <section class="page page-content skeleton-editorial-split layout-data density-normal blocks-3 items-2 composition-template" data-page-kind="content" data-page-role="compare" data-composition-mode="template" data-composition-id="" data-layout="data" data-layout-source="recommended" data-density="normal" data-density-adjustment="none" data-block-count="3" data-list-item-count="2" data-page-number="4"><div class="page-inner"><header class="page-header"><span class="brand">小红书 · example/production-preview</span><span class="page-number">04</span></header><main class="page-body" data-valign="center"><div class="page-content-stack" data-card-index="04"><span class="eyebrow">TOOL CARD</span><h1>方案前后对比</h1><div class="content-block compare-block"><h2>关键差异</h2><table><thead><tr><th data-text-role="auxiliary">维度</th><th data-text-role="auxiliary">调整前</th><th data-text-role="auxiliary">调整后</th></tr></thead><tbody><tr><td>控制范围</td><td>固定样式</td><td>组件级</td></tr><tr><td>AI 空间</td><td>较窄</td><td>可组合</td></tr></tbody></table></div><div class="content-block list-block"><h2>适用场景</h2><ul><li>固定样稿对比</li><li>主题发布前检查</li></ul></div><aside class="content-block note-block"><h2>备注</h2><p>对比块用于观察表头、边框与行高。</p></aside></div></main><footer class="page-footer"><span>基于项目文档整理 · 未实际运行</span><i></i></footer></div></section>
